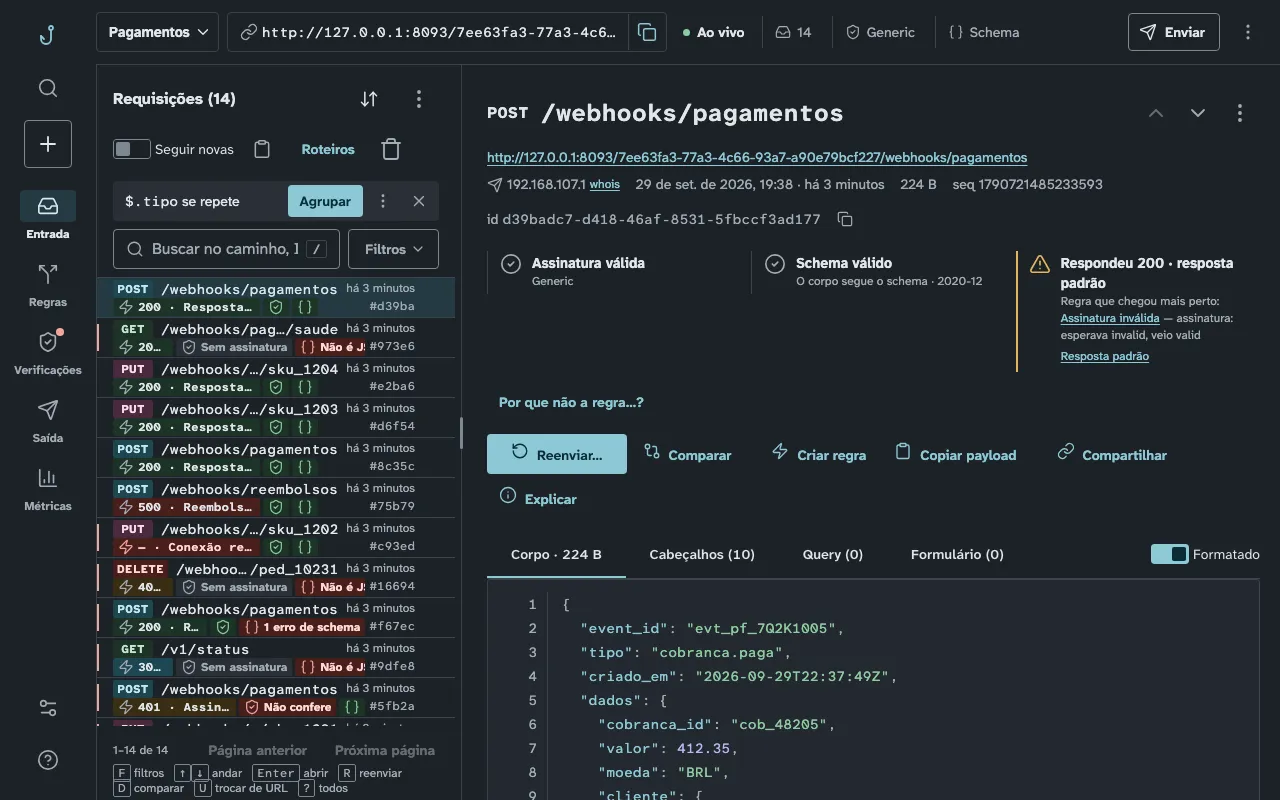
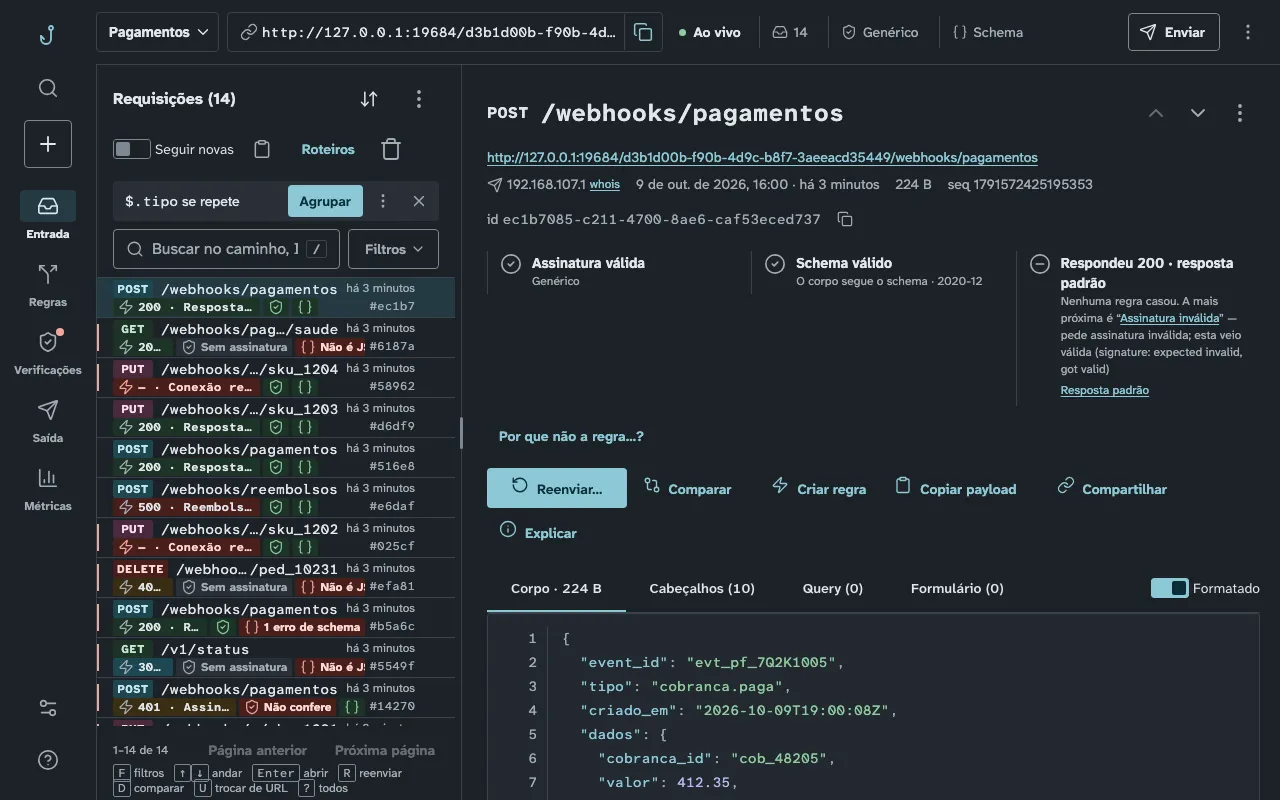
docs: capturas da tela de hoje, com a decifra e o laboratório
As 14 capturas eram de 29/09, antes da decifra, da revisão dos textos e do
cartão de regra mais próxima atual. Entram também a configuração da
decifra, o resultado do laboratório e o detalhe de uma mensagem decifrada.
Dados fictícios, stack isolado, WebP q80.

Na ilustração da decifra, o passo 5 encurta para caber no quadro.

diff --git a/docs/imagens/assinatura-hmac-escuro.html b/docs/imagens/assinatura-hmac-escuro.html
@@ -1,0 +1,1 @@
+<!doctype html><html><body style="margin:16px;background:#0d1117"><img src="./assinatura-hmac-escuro.svg" width="1200"></body></html>

diff --git a/docs/imagens/assinatura-hmac-claro.html b/docs/imagens/assinatura-hmac-claro.html
@@ -1,0 +1,1 @@
+<!doctype html><html><body style="margin:16px;background:#ffffff"><img src="./assinatura-hmac-claro.svg" width="1200"></body></html>

diff --git a/docs/imagens/fluxo-geral-escuro.html b/docs/imagens/fluxo-geral-escuro.html
@@ -1,0 +1,1 @@
+<!doctype html><html><body style="margin:16px;background:#0d1117"><img src="./fluxo-geral-escuro.svg" width="1200"></body></html>

diff --git a/docs/imagens/fluxo-geral-claro.html b/docs/imagens/fluxo-geral-claro.html
@@ -1,0 +1,1 @@
+<!doctype html><html><body style="margin:16px;background:#ffffff"><img src="./fluxo-geral-claro.svg" width="1200"></body></html>

diff --git a/docs/imagens/decifra-escuro.html b/docs/imagens/decifra-escuro.html
@@ -1,0 +1,1 @@
+<!doctype html><html><body style="margin:16px;background:#0d1117"><img src="./decifra-escuro.svg" width="1200"></body></html>

diff --git a/docs/imagens/decifra-claro.html b/docs/imagens/decifra-claro.html
@@ -1,0 +1,1 @@
+<!doctype html><html><body style="margin:16px;background:#ffffff"><img src="./decifra-claro.svg" width="1200"></body></html>
